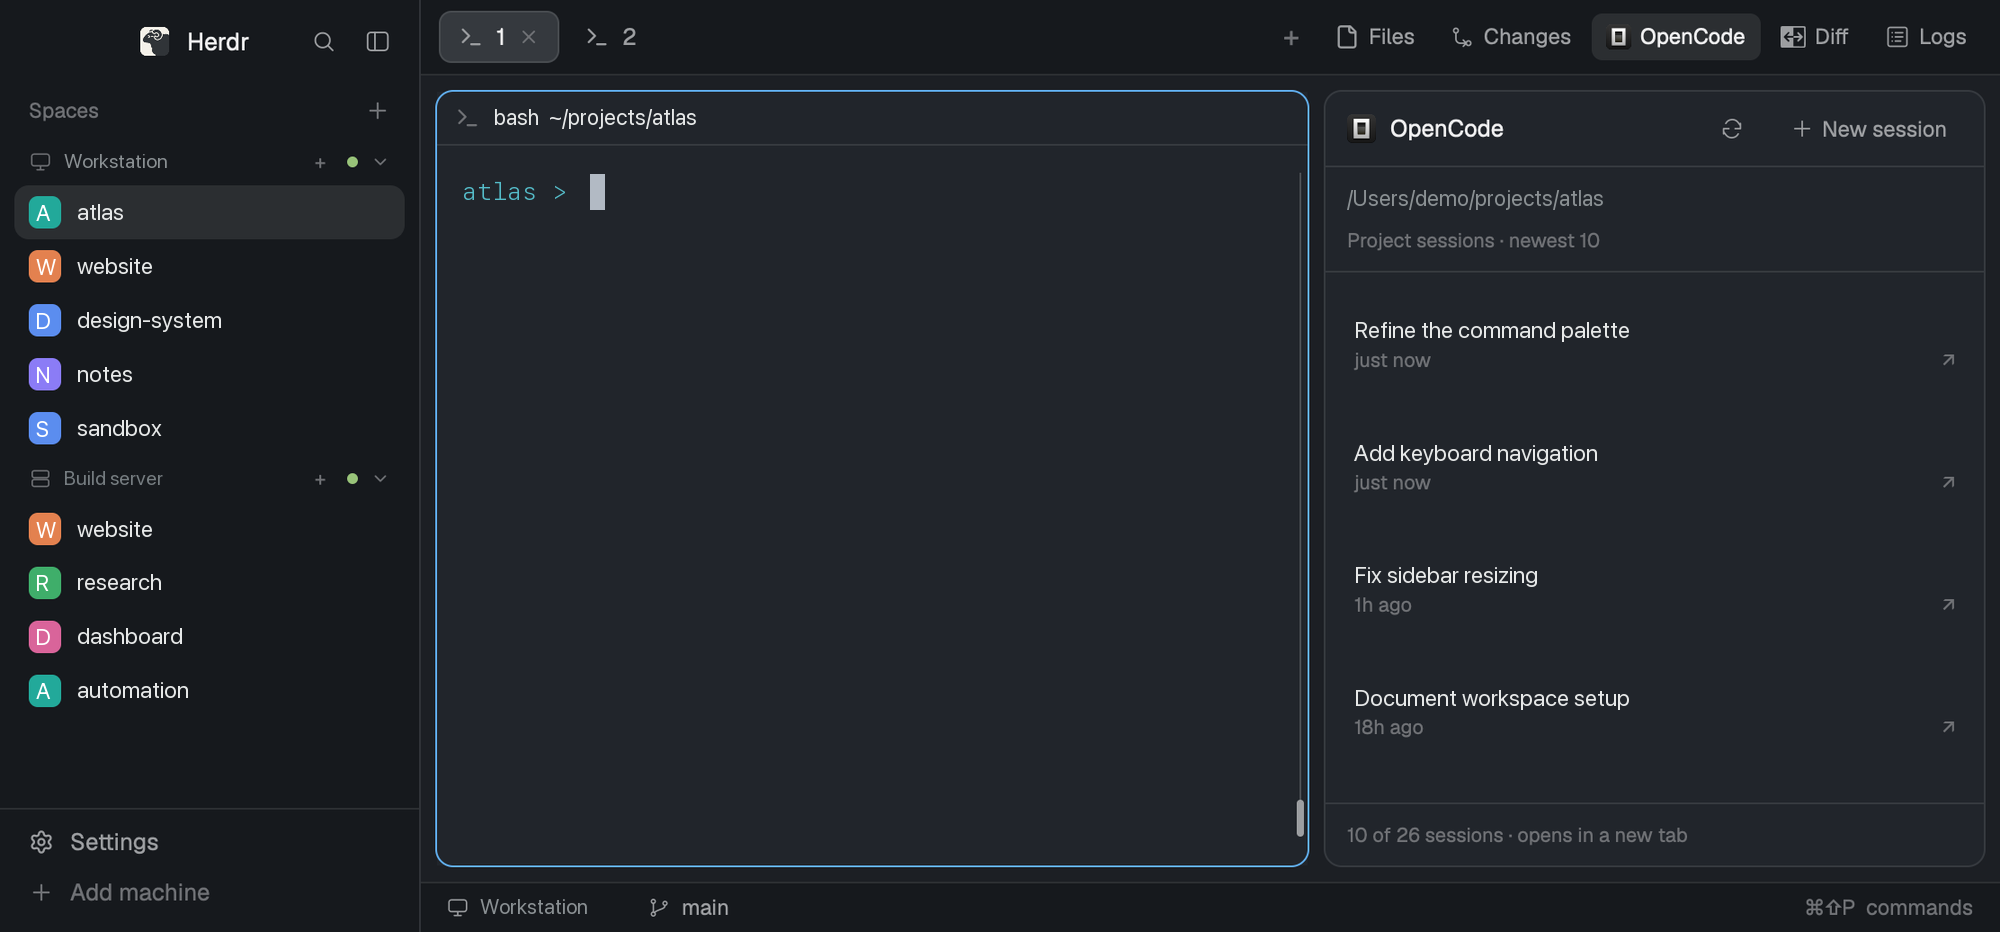
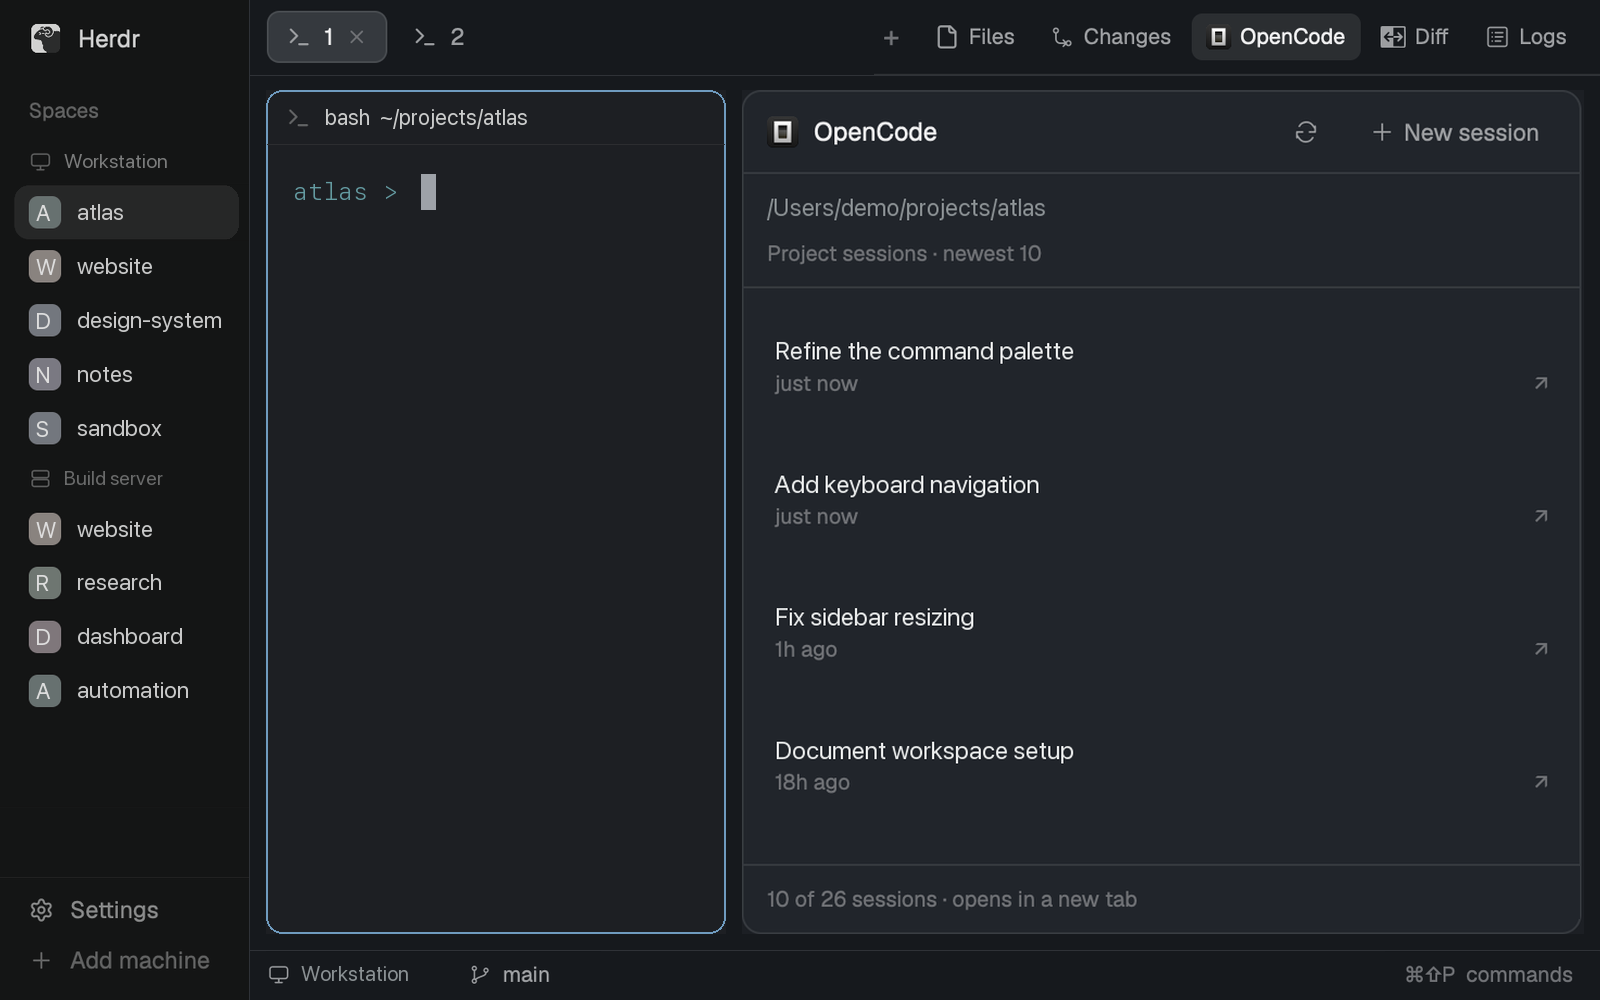
docs: reframe preview for Herdr gallery thumbnails

diff --git a/README.md b/README.md
@@ -44,9 +44,11 @@ boundary. Install only code you trust.
    also opens/closes that dialog for `opencode-panel`.
 
 Keep `RECIPE.md` and `preview.png` in the repository, not in Herdr's config home.
-The preview is a real Herdr screenshot with opaque replacements for machine,
-space, session and path text; the surrounding custom layout is illustrative,
-not included in this mod.
+The preview is an anonymized, recomposed Herdr screenshot. Its 1600×1000 (16:10)
+frame matches the gallery's thumbnails, with a narrow terminal and muted sidebar
+to keep the OpenCode panel legible. Machine, space, session and path text are
+replaced with examples. This illustrative framing is not included in the mod
+and does not change your layout.
 
 ## Service and updates
 

diff --git a/RECIPE.md b/RECIPE.md
@@ -37,6 +37,10 @@ New session. It is a reusable mod, not a replacement window layout.
 
 The preview's sidebar and terminal are context from a personal layout, not
 parts to recreate. Its machine/space/session labels and paths are anonymized.
+Use a 1600×1000 (16:10) preview so Herdr's top-left-aligned, cover-fit gallery
+thumbnails do not crop away the panel. In this recomposed screenshot the panel
+occupies just over half the image width; the terminal is narrower and the
+sidebar colors are muted. This is preview framing, not a supplied layout.
 
 ## How it behaves
 
